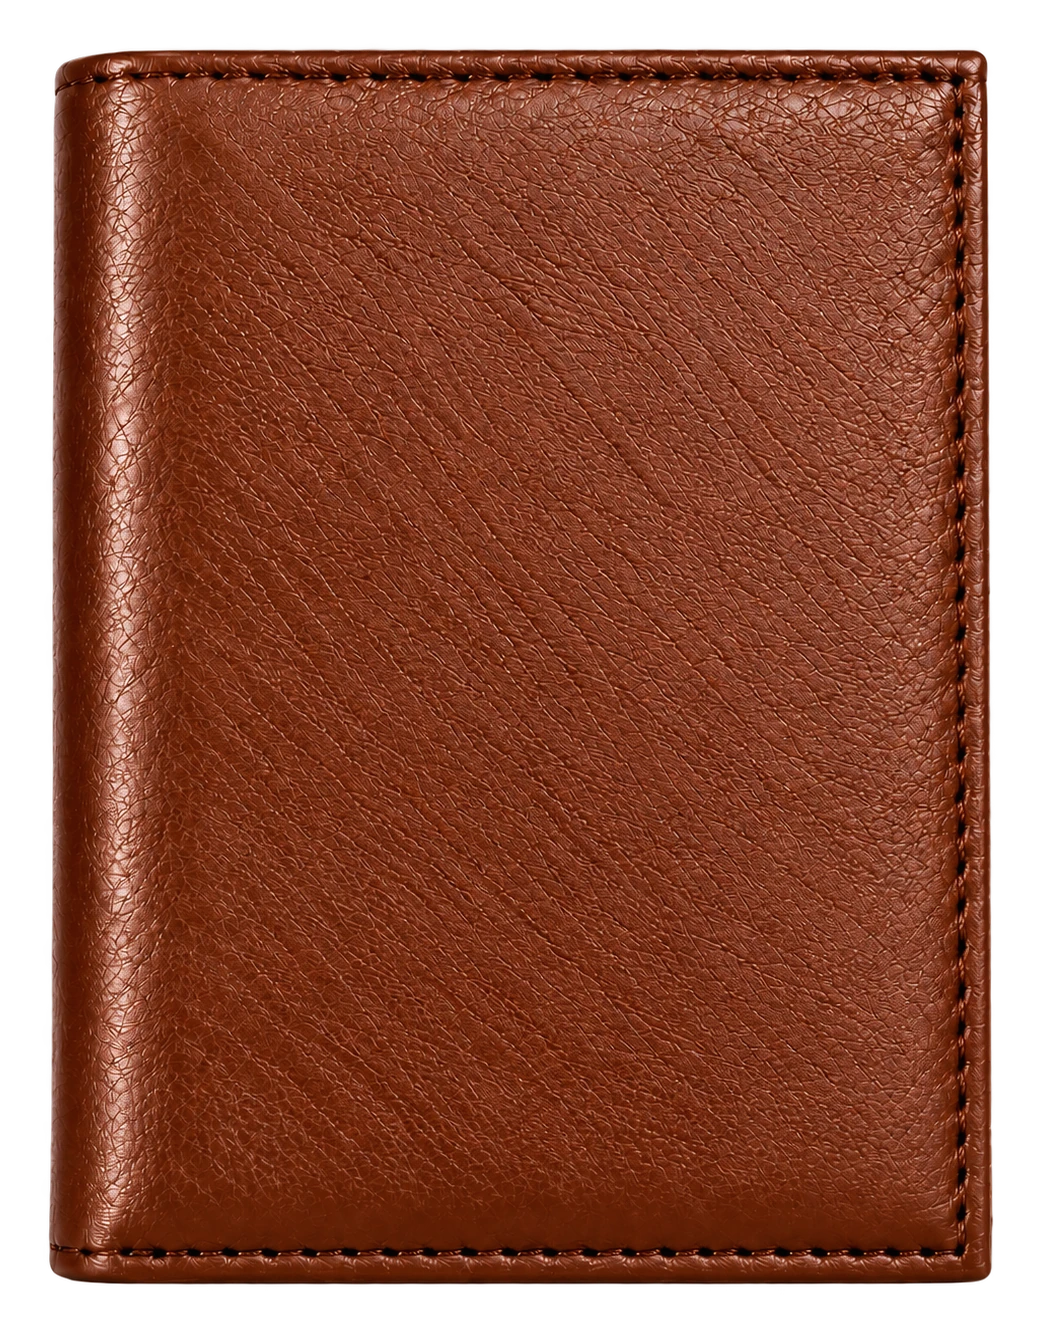
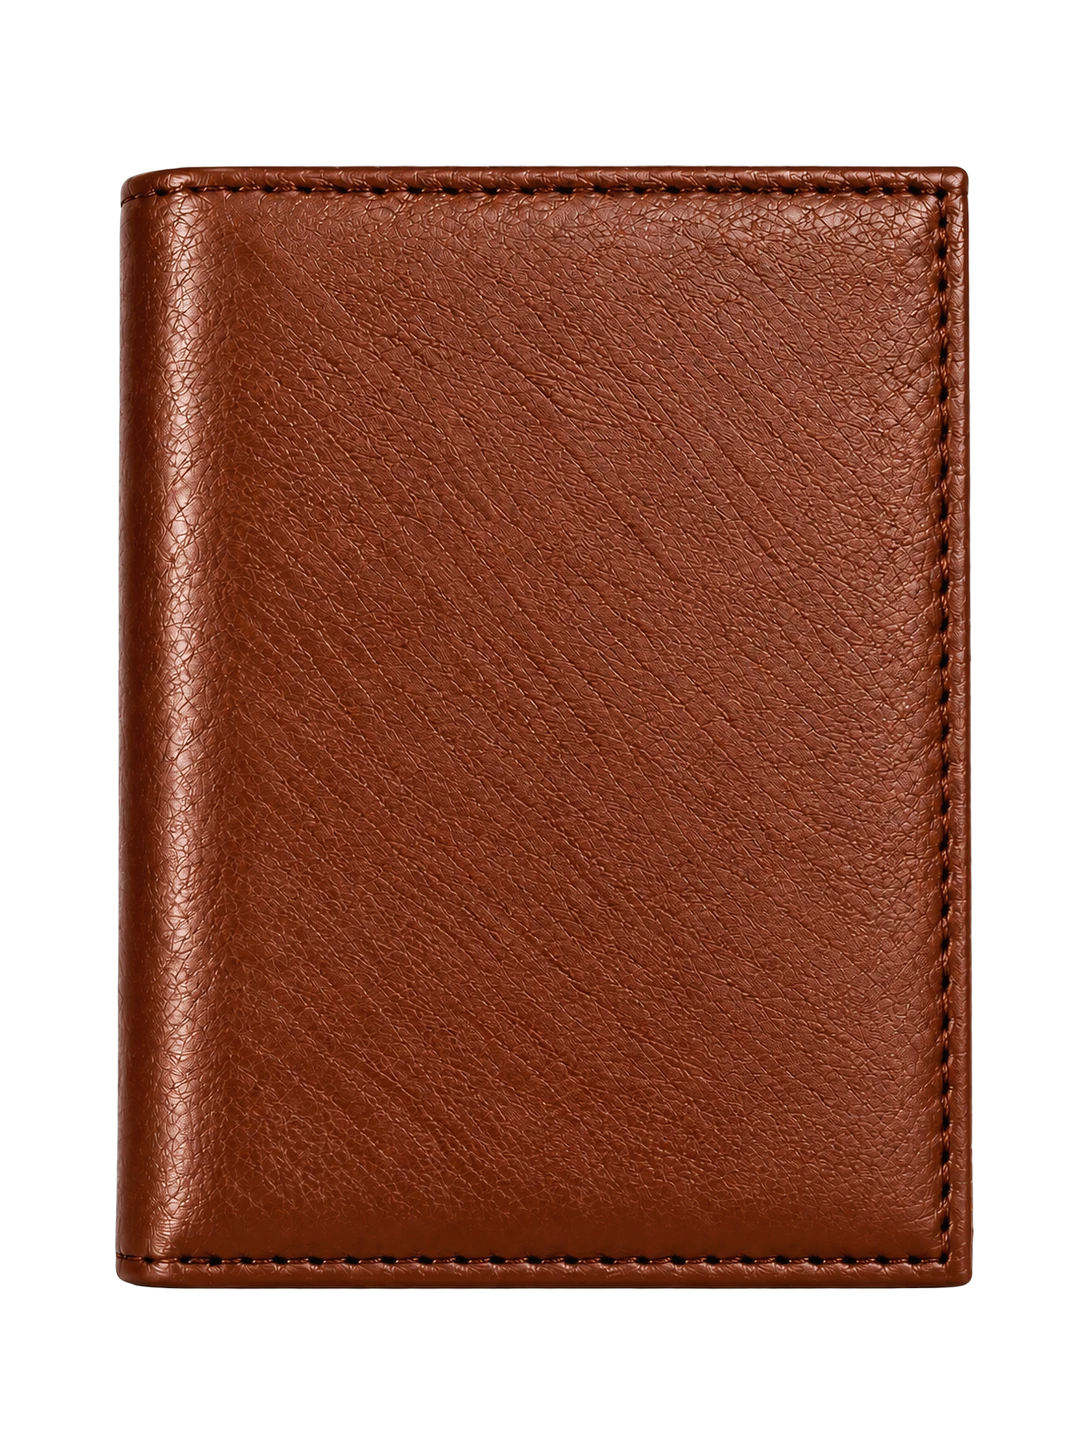
Engraved wallet photos keep the front photo's framing
The design photo showed bigger than the zipper front on hover in the Crear
card. The three colors now share the front photo's 1086 x 1448 framing, the
zone and reference line follow, and rerunning the Yoryo step swaps them in.

diff --git a/src/pages/admin/plantillasYoryo/grabadosYoryo.js b/src/pages/admin/plantillasYoryo/grabadosYoryo.js
@@ -15,8 +15,9 @@ import { tamanoParaCaja } from './plantillasACapas.mjs';
  * Corre con la sesión del admin, desde ImportarPlantillasYoryo.
  *
  * Las fotos para diseñar están en public/yoryo/grabados/: las transparentes
- * que mandó el dueño (la cara lisa de cada color y la esclava de frente, con
- * la placa recta), recortadas al producto. Las zonas se midieron sobre ellas. Las medidas en cm son ESTIMADAS (el taller todavía no las
+ * que mandó el dueño (la cara lisa de cada color, con el encuadre de la foto
+ * de frente; la esclava de frente, con la placa recta, recortada con aire).
+ * Las zonas se midieron sobre ellas. Las medidas en cm son ESTIMADAS (el taller todavía no las
  * confirmó): se corrigen en la ficha, pestaña Diseño, con la línea de
  * referencia.
  */
@@ -24,7 +25,7 @@ import { tamanoParaCaja } from './plantillasACapas.mjs';
 const BASE = '/yoryo/grabados';
 // Qué fotos para diseñar lleva el producto: si cambian, volver a correrlo las
 // pone (con sus zonas) en el producto que ya existe.
-const VERSION_FOTOS = 'transparentes-2026-10-29';
+const VERSION_FOTOS = 'transparentes-encuadre-2026-10-29';
 const BILLETERA_TIENDA = 'NEtavILSA0EoxJgGD7ou';
 const ESCLAVA_TIENDA = 'WAxcEpXkgODfj0JBc4qB';
 export const IDS_GRABADOS = { billetera: 'yoryo-crear-billetera', esclava: 'yoryo-crear-esclava' };
@@ -46,11 +47,12 @@ const PIEZAS = {
     },
     // La tarjeta de Crear la muestra de frente (con el cierre); se graba atrás.
     portadaDeFrente: true,
-    // Sobre la foto de 989 × 1224 (la cara va de 45,45 a 944,1179; las de los
-    // otros colores tienen el mismo encuadre): abajo a la derecha, como en las
-    // fotos de muestra. Cara de unos 9 cm de ancho (estimado).
-    zona: { id: 'billetera-grabado', nombre: 'Grabado', x: 566 / 989, y: 848 / 1224, w: 306 / 989, proporcion: 0.75, angulo: 0 },
-    referencia: { x1: 45 / 989, y1: 600 / 1224, x2: 944 / 989, y2: 600 / 1224, cm: 9 },
+    // Sobre la foto de 1086 × 1448, con el encuadre de la de frente (la cara va
+    // de 100,165 a 990,1290 en los tres colores): así la portada y la foto para
+    // diseñar se ven del mismo tamaño en la tarjeta. Abajo a la derecha, como
+    // en las fotos de muestra. Cara de unos 9 cm de ancho (estimado).
+    zona: { id: 'billetera-grabado', nombre: 'Grabado', x: 616 / 1086, y: 962 / 1448, w: 303 / 1086, proporcion: 0.75, angulo: 0 },
+    referencia: { x1: 100 / 1086, y1: 700 / 1448, x2: 990 / 1086, y2: 700 / 1448, cm: 9 },
   },
   esclava: {
     id: IDS_GRABADOS.esclava, tiendaId: ESCLAVA_TIENDA, nombre: 'Esclava Yoryo grabada',
